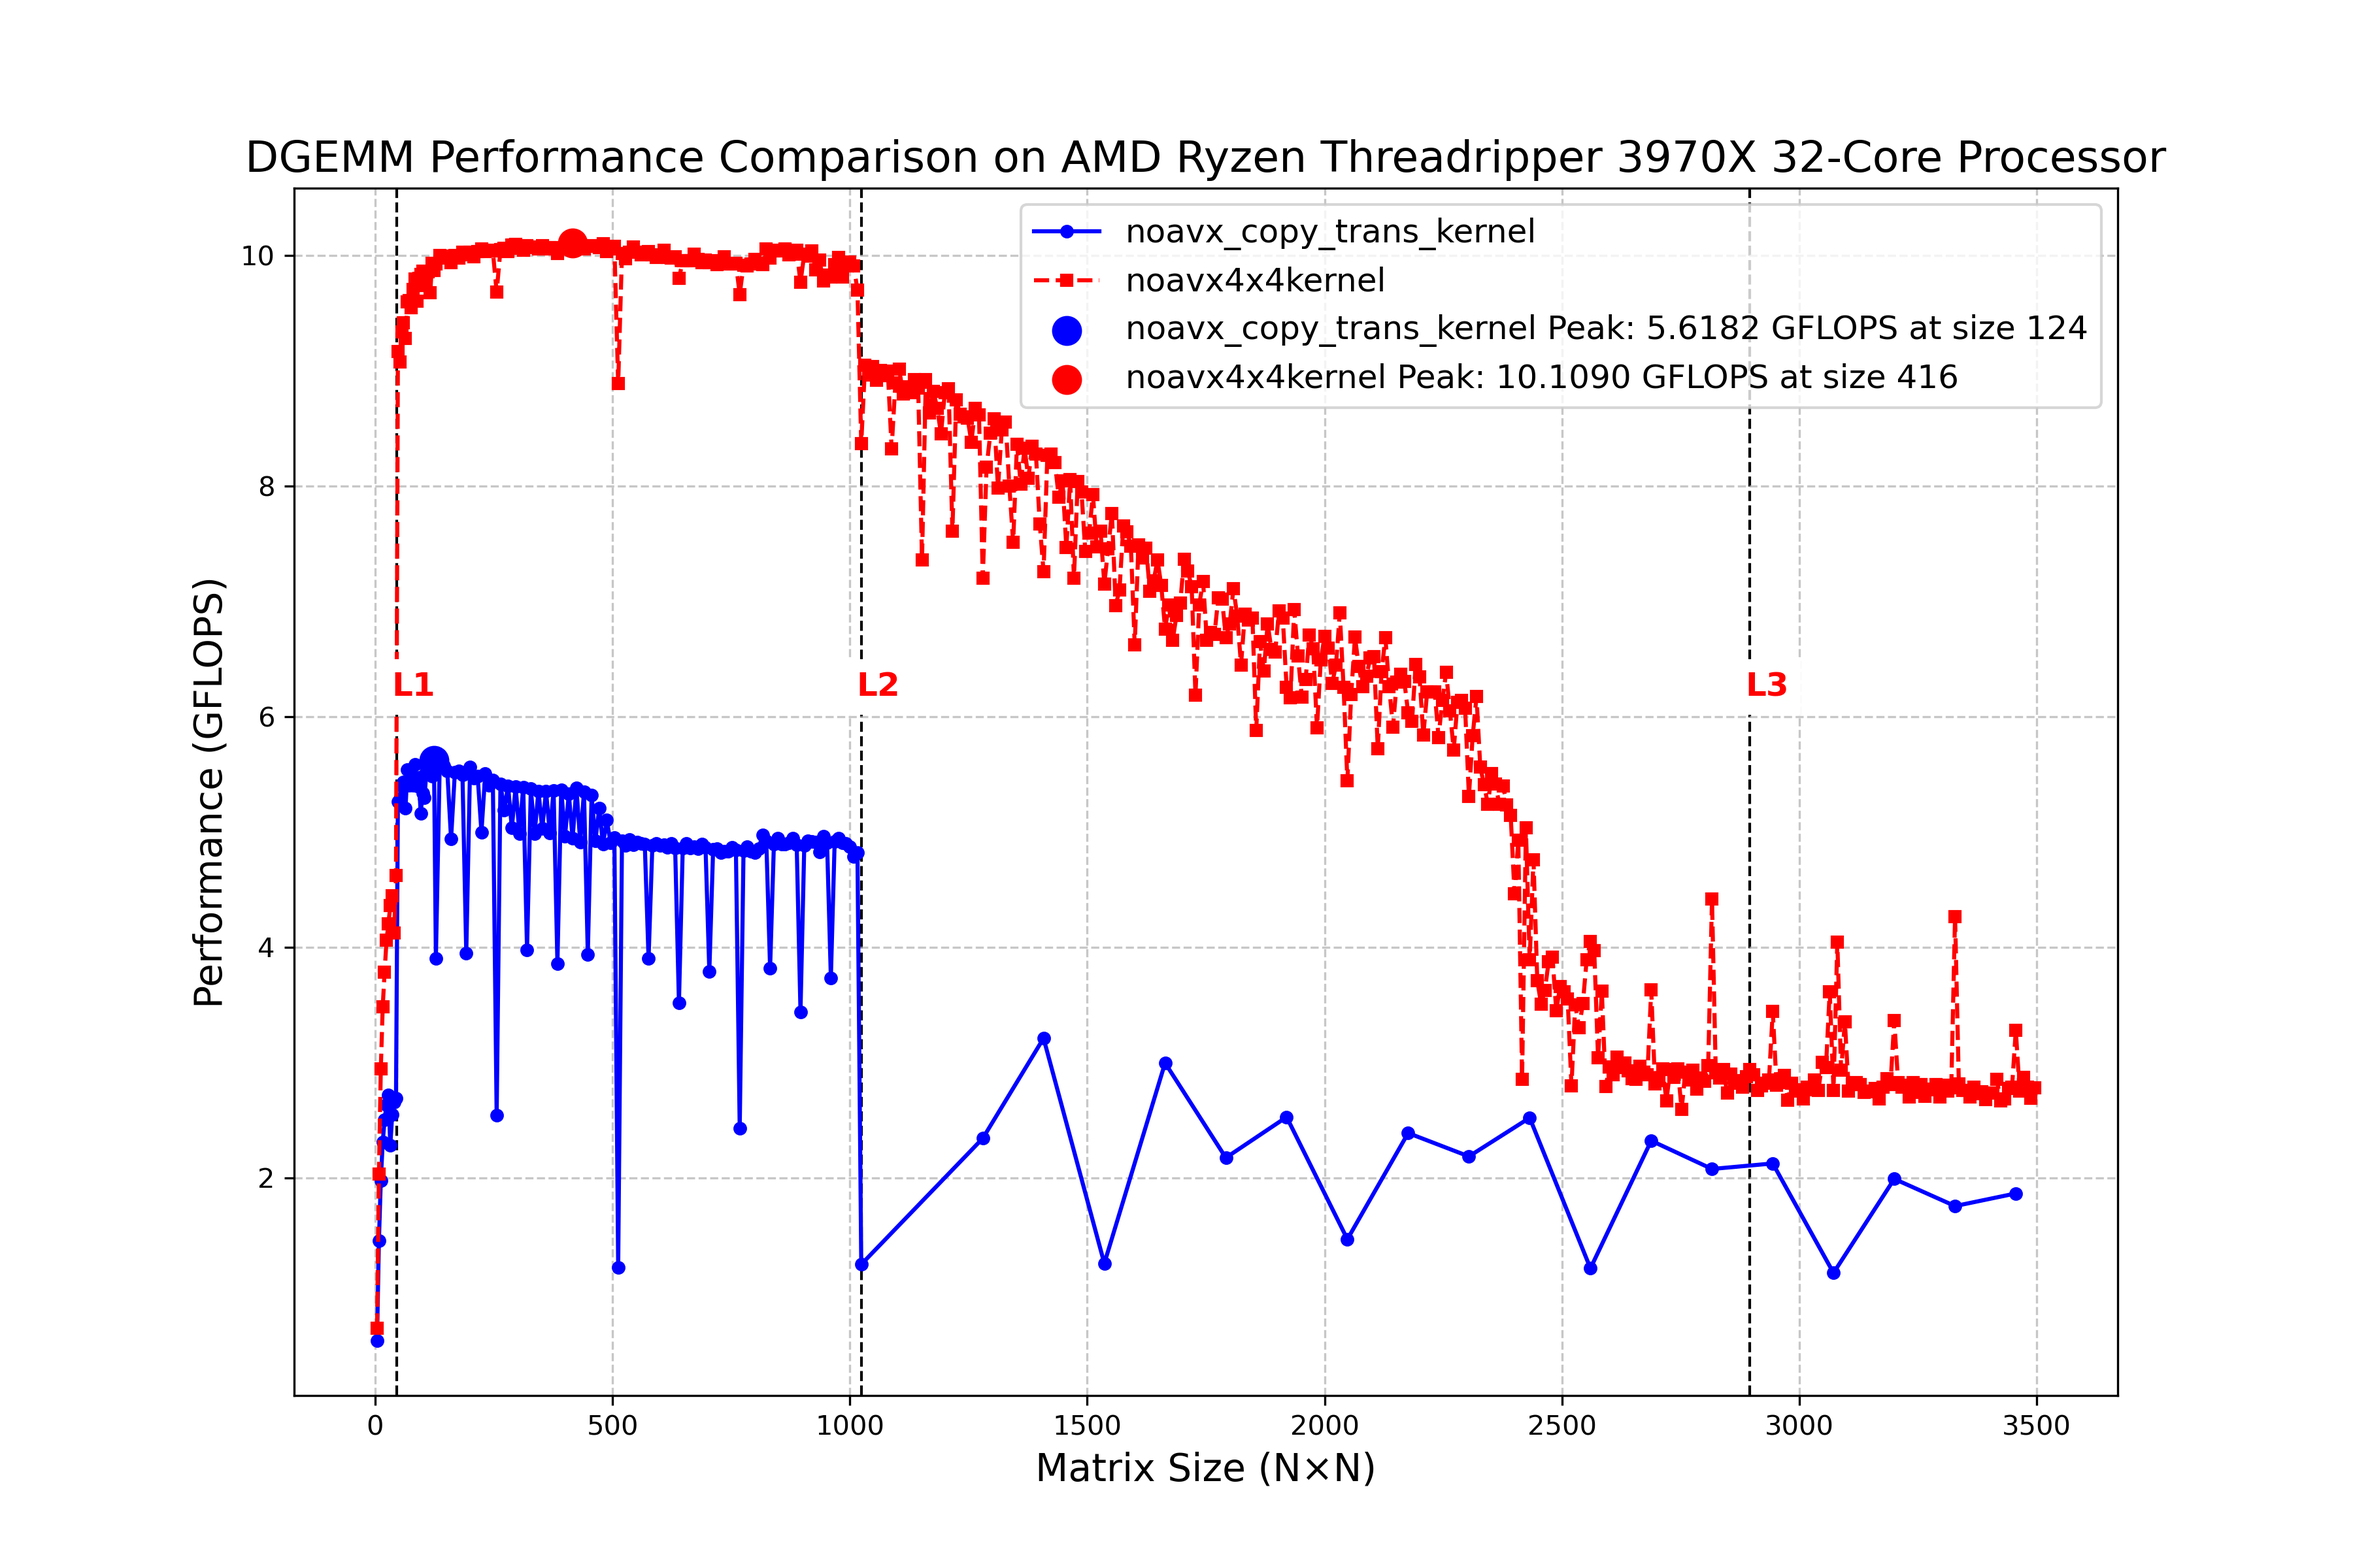
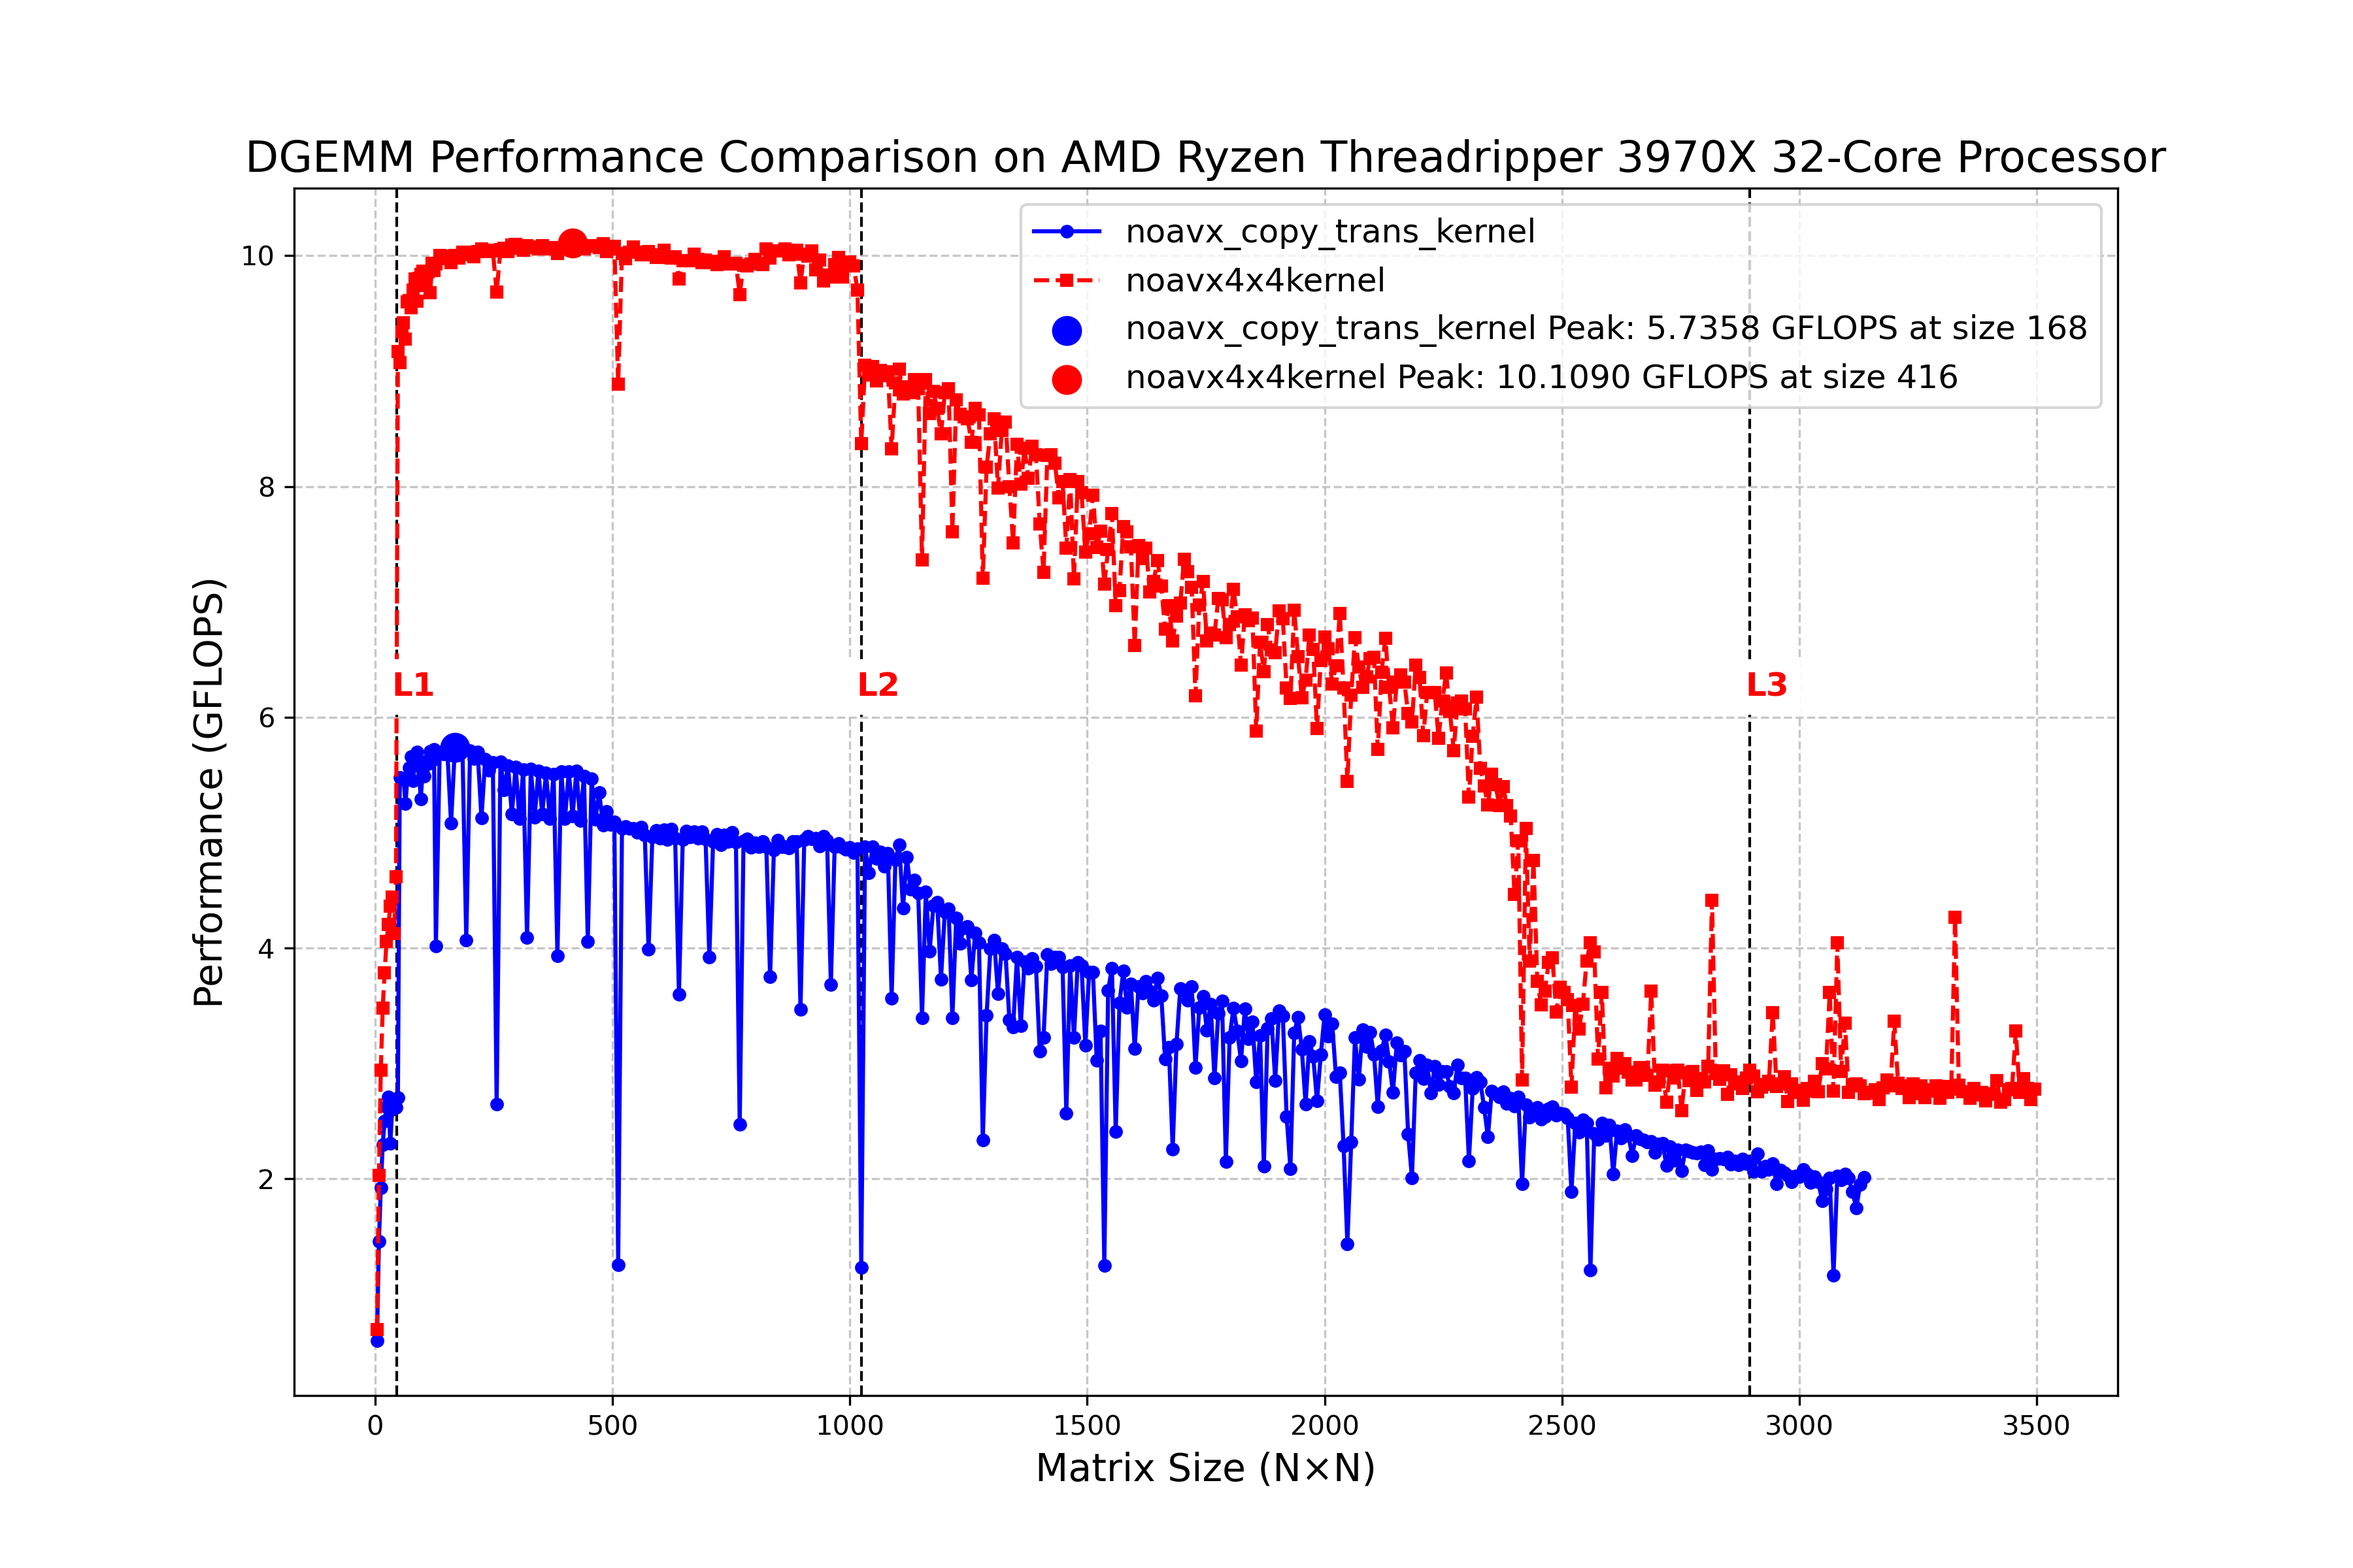
.

diff --git a/14/14_dgemm_noavx4x4_copy_trans_kernel.cpp b/14/14_dgemm_noavx4x4_copy_trans_kernel.cpp
@@ -250,16 +250,11 @@ int main(int argc, char *argv[]) {
     }
 
     // Sizes that are multiples of 8 (128 to 1024)
-    for (int size = 128; size <= 1024; size += 8) {
+    for (int size = 128; size <= 3500; size += 8) {
         size_set.insert(size);
     }
 
-    // Sizes that are multiples of 128 (1280 and up)
-    for (int size = 1280; size <= 3500; size += 128) {
-        size_set.insert(size);
-    }
-
-    // Convert set to vector (set is already sorted)
+   // Convert set to vector (set is already sorted)
     std::vector<int> sizes(size_set.begin(), size_set.end());
 
     const int num_trials = 5;  // 5 trials
